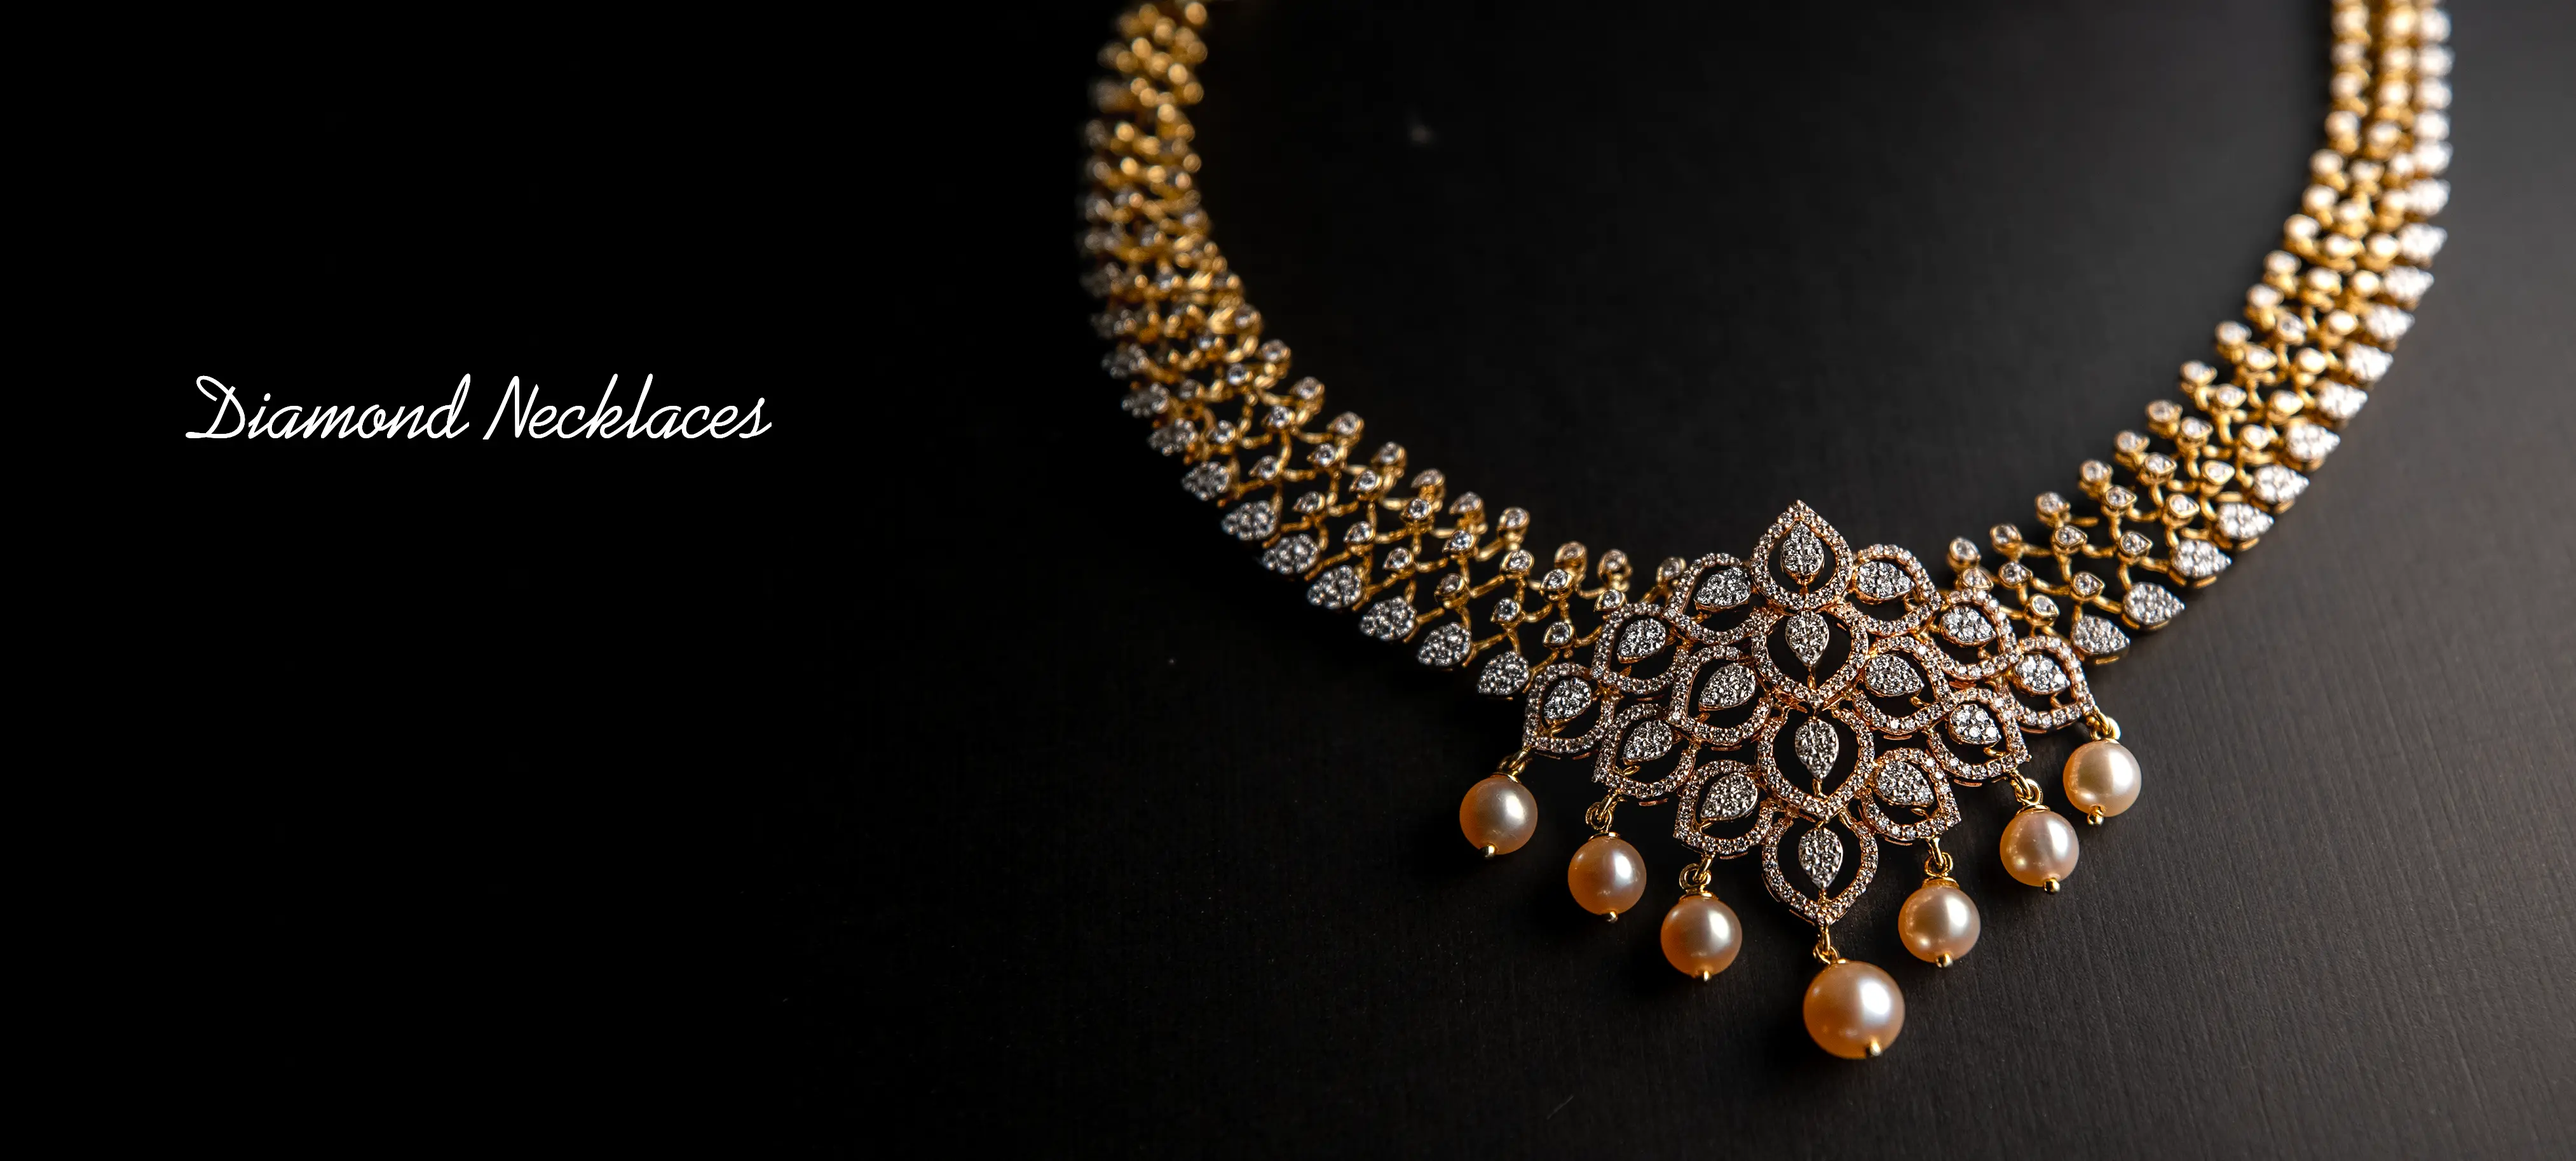
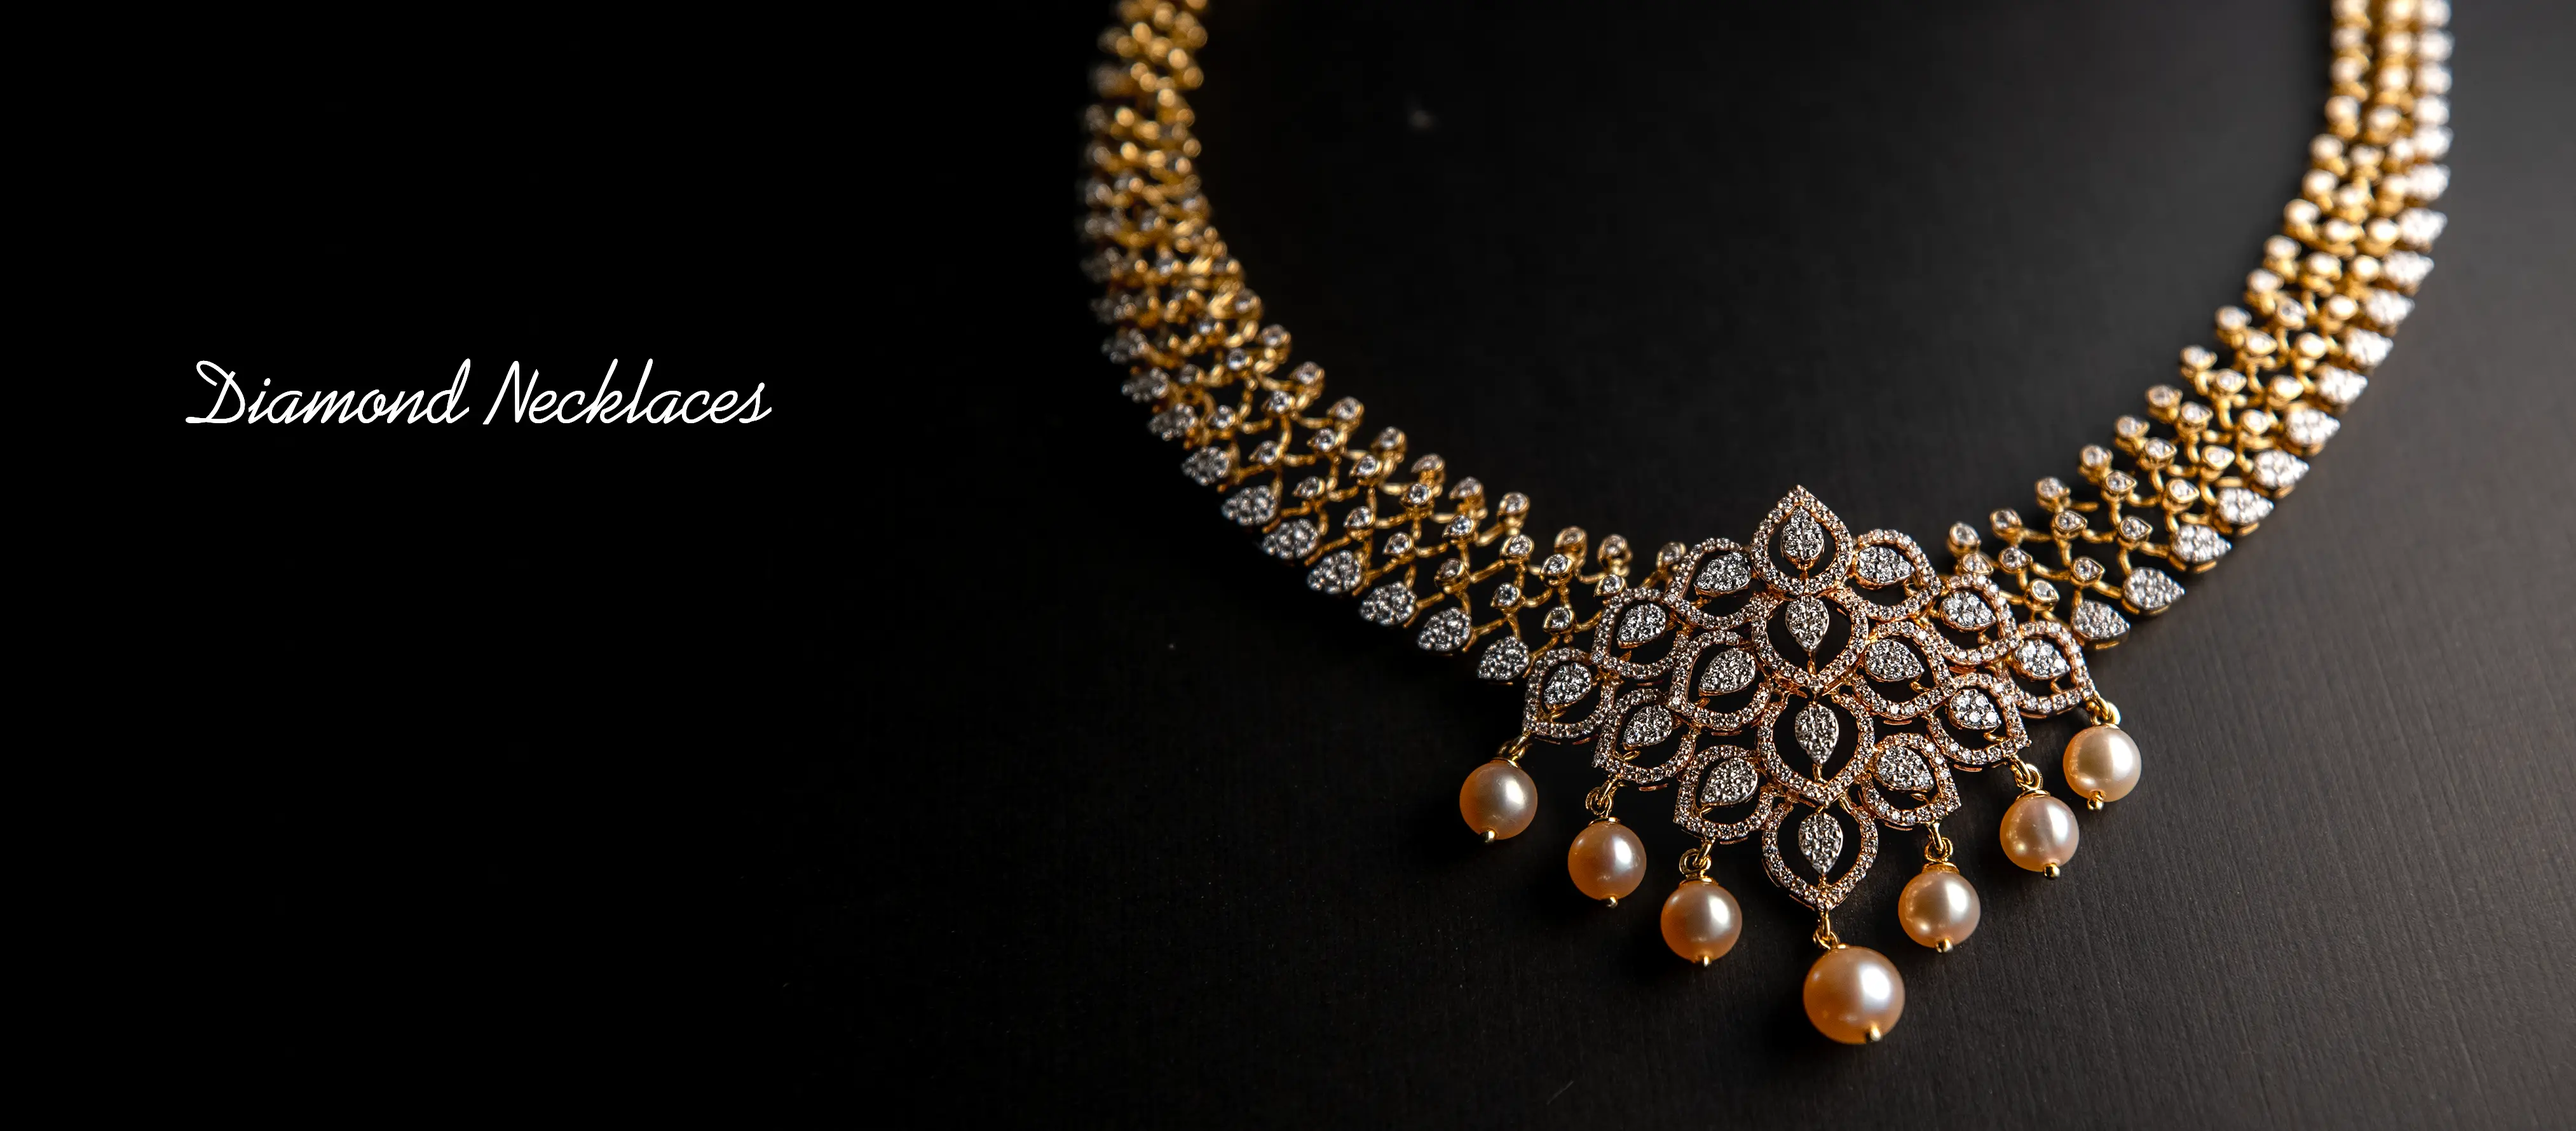
newly resized images

diff --git a/index.html b/index.html
@@ -416,10 +416,10 @@
               <source src="images/Banner/Templejewelry.mp4" type="video/mp4" />
             </video> -->
 
-            <img src="images/Banner/compressed3.webp" alt="Chicago" width="1100" height="500"
+            <img src="images/Banner/banner_test_3.webp" alt="Chicago" width="1100" height="500"
               class="mobile-disable slider-image img-fluid"> 
 
-            <img src="images/Banner/compressed3.webp" alt="Los Angeles" width="1100" class="mobile-enable">
+            <img src="images/Banner/banner_test_3.webp" alt="Los Angeles" width="1100" class="mobile-enable">
             <!-- <img src="images/Banner/main-banner-3-mob.jpg" alt="Los Angeles" width="1100"  class="mobile-enable">
 
                         <div class="carousel-caption"> -->
